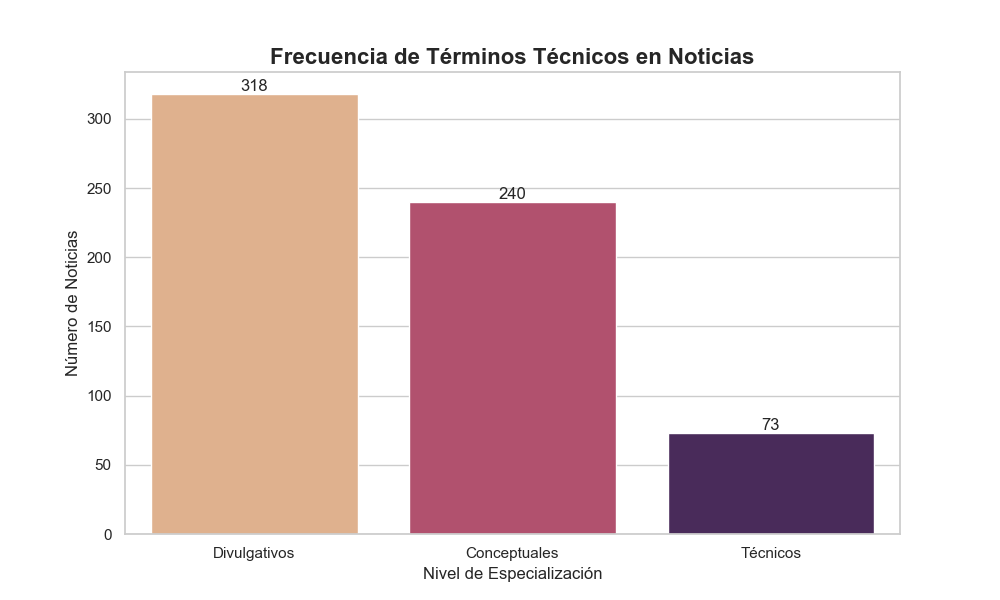
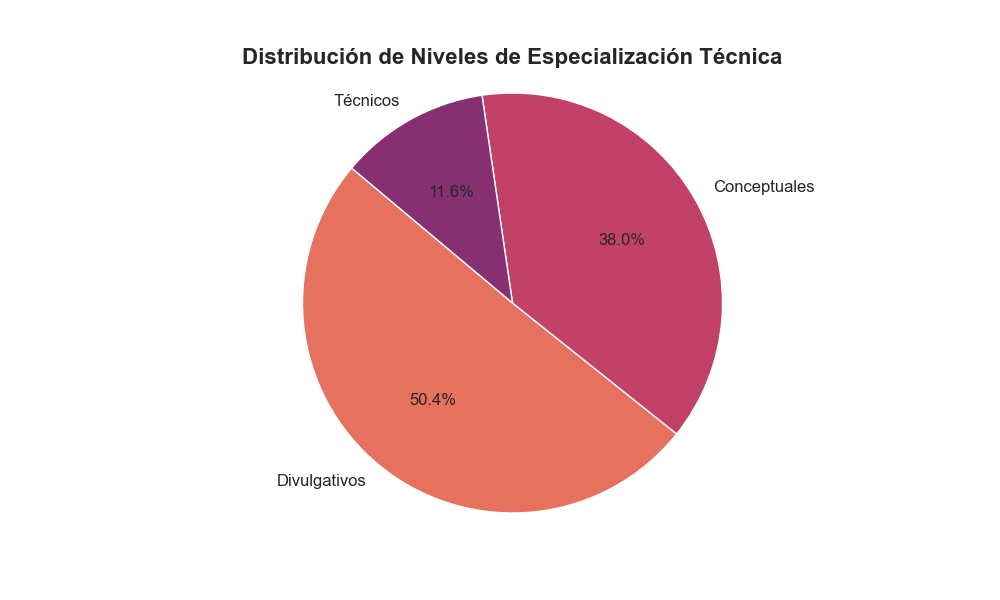
chore: graphics

diff --git a/visualization/david/graphics_david.py b/visualization/david/graphics_david.py
@@ -323,18 +323,12 @@ technification_ratio = technification_level[3] / (technification_level[1] + tech
 
 df_2 = pd.DataFrame(list(technification_level.items()), columns = ['Level', 'Count'])
 
-ax = sns.barplot(data=df_2, x='Level', y='Count', hue='Level', palette='flare')
-
-plt.title('Frecuencia de Términos Técnicos en Noticias', fontsize=16, fontweight='bold')
-plt.ylabel('Número de Noticias', fontsize=12)
-plt.xlabel('Nivel de Especialización', fontsize=12)
-plt.xticks([0, 1, 2], ["Divulgativos", "Conceptuales", "Técnicos"])
-
-for container in ax.containers:
-    tmp_hue = df_2.loc[df_2['Level']==container.get_label()]
-    ax.bar_label(container, labels=tmp_hue['Count'])
-
-ax.legend().remove()
+labels = ["Divulgativos", "Conceptuales", "Técnicos"]
+sizes = [technification_level[1], technification_level[2], technification_level[3]]
+colors = sns.color_palette('flare', len(labels))
+plt.pie(sizes, labels=labels, autopct='%1.1f%%', startangle=140, colors=colors, textprops={'fontsize': 12})
+plt.title('Distribución de Niveles de Especialización Técnica', fontsize=16, fontweight='bold')
+plt.axis('equal')
 plt.savefig(os.path.join(script_dir, 'question2.png'))
 plt.clf()
 
@@ -412,17 +406,18 @@ ordered_percentages_2 = sorted(percentages_2.items(), key=lambda x: x[1], revers
 
 df_3 = pd.DataFrame(ordered_percentages_2, columns=['Category', 'Percentage'])
 
-ax = sns.barplot(x='Percentage', y='Category', hue='Category', data=df_3)
-
-plt.subplots_adjust(left=0.22)
-plt.title('Categorías de Noticias', fontsize=16, fontweight='bold')
-plt.xlabel('% de Noticias')
+# Usar gráfico de violín para mostrar la distribución de porcentajes por categoría
+plt.figure(figsize=(12, 7))
+data = []
+categories = []
+for cat, pct in ordered_percentages_2:
+    # Repetir la categoría según el porcentaje para simular la distribución
+    data.extend([cat] * int(pct))
+    categories.append(cat)
+sns.violinplot(y=data, inner=None, palette='pastel')
+plt.title('Distribución de Categorías de Noticias de IA', fontsize=16, fontweight='bold')
 plt.ylabel('Categoría')
-plt.yticks(['Generative AI & LLMs', 'Computer Vision', 'Machine Learning & Data Science', 'Robotics & Automation', 'Autonomous Vehicles', 'Ethics, Safety & Regulation', 'Hardware & Infrastructure', 'Healthcare & Biotech', 'Enterprise & Business Applications'], ['IA Generativa', 'Visión por Computadora', 'ML & Datos', 'Robótica', 'Vehículos Autónomos', 'Ética y Regulación', 'Hardware', 'Salud & Biotecnología', 'IA Empresarial'])
-
-for container in ax.containers:
-    tmp_hue = df_3.loc[df_3['Category']==container.get_label()]
-    ax.bar_label(container, labels=tmp_hue['Percentage'])
-
+plt.xlabel('Densidad de Noticias (%)')
+plt.tight_layout()
 plt.savefig(os.path.join(script_dir, 'question3.png'))
 plt.clf()
